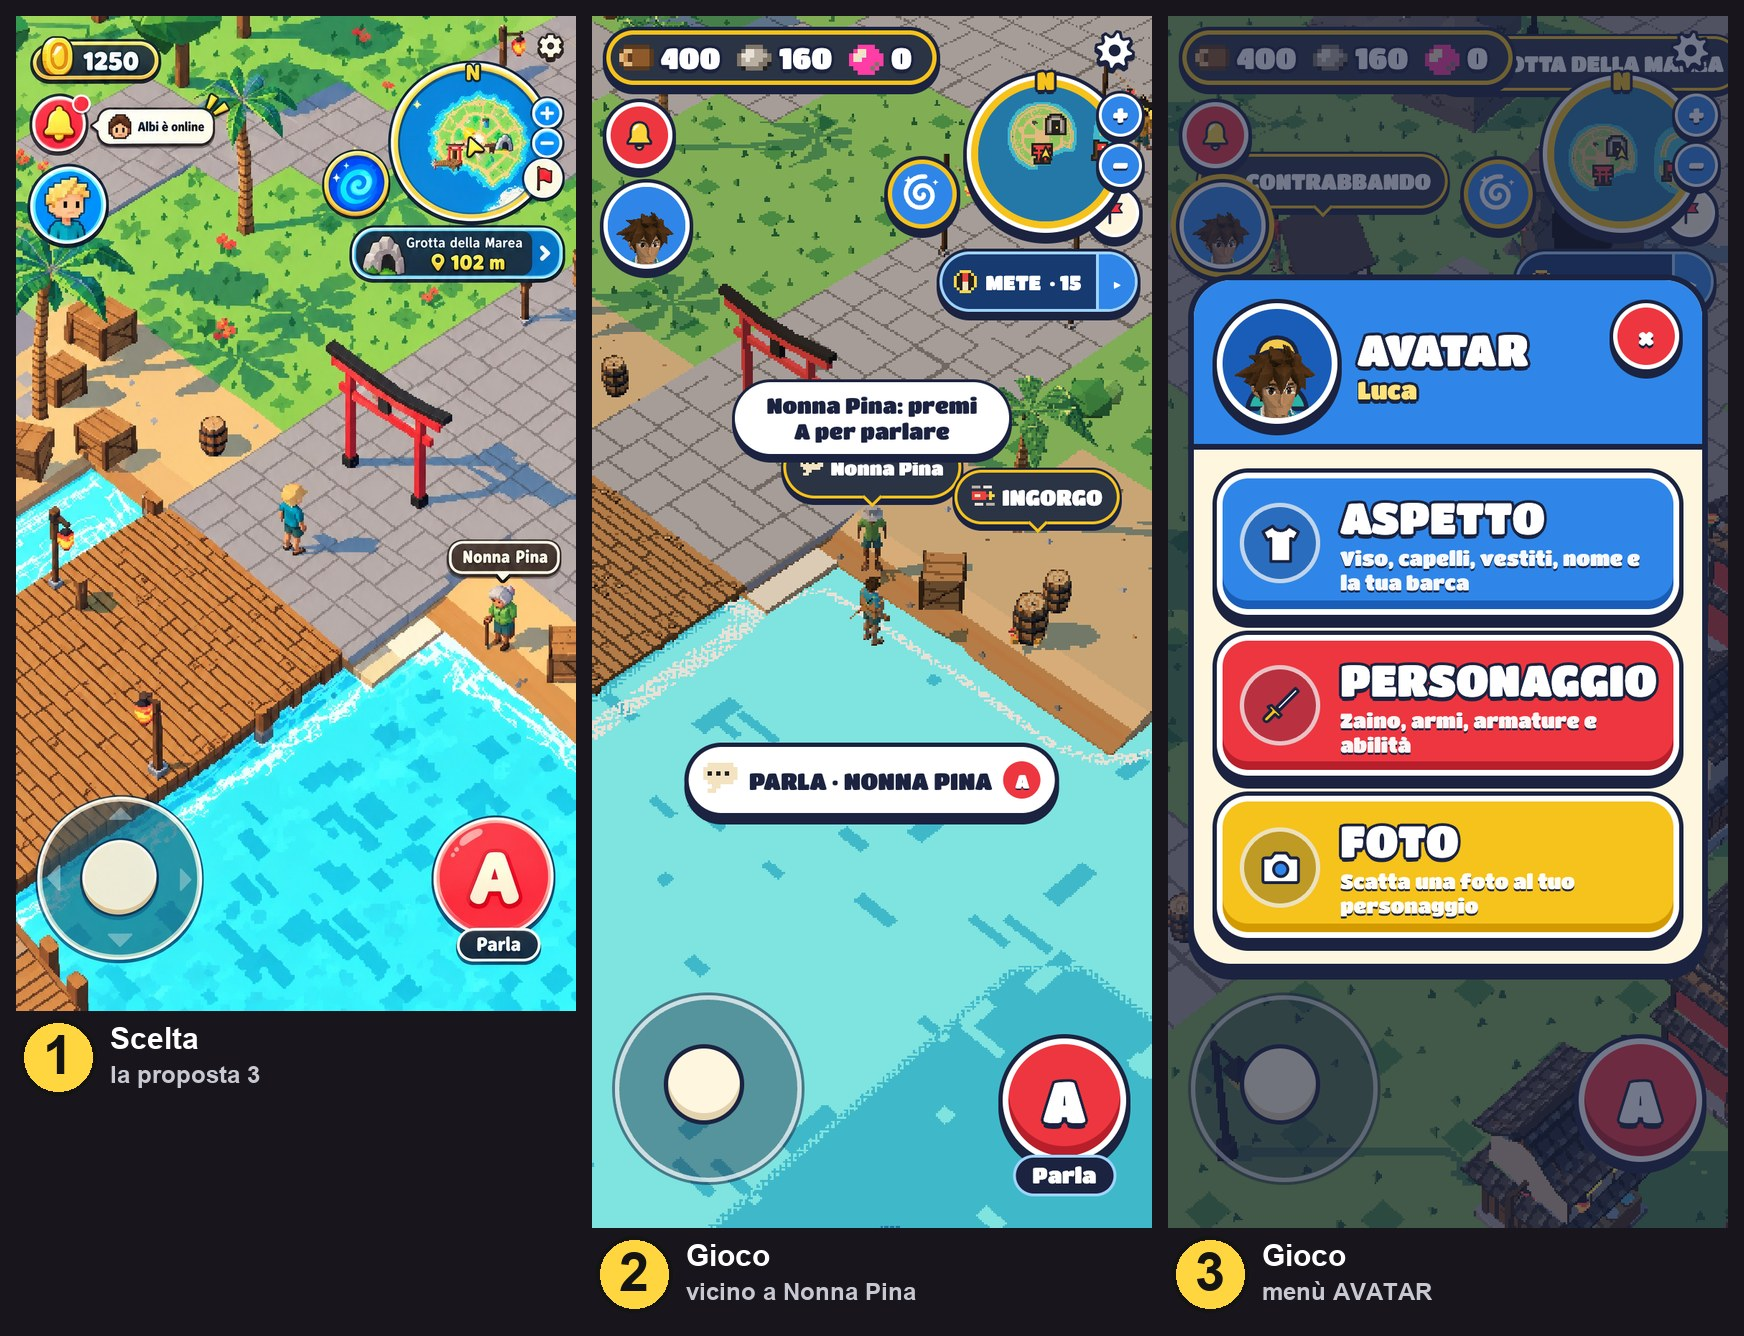
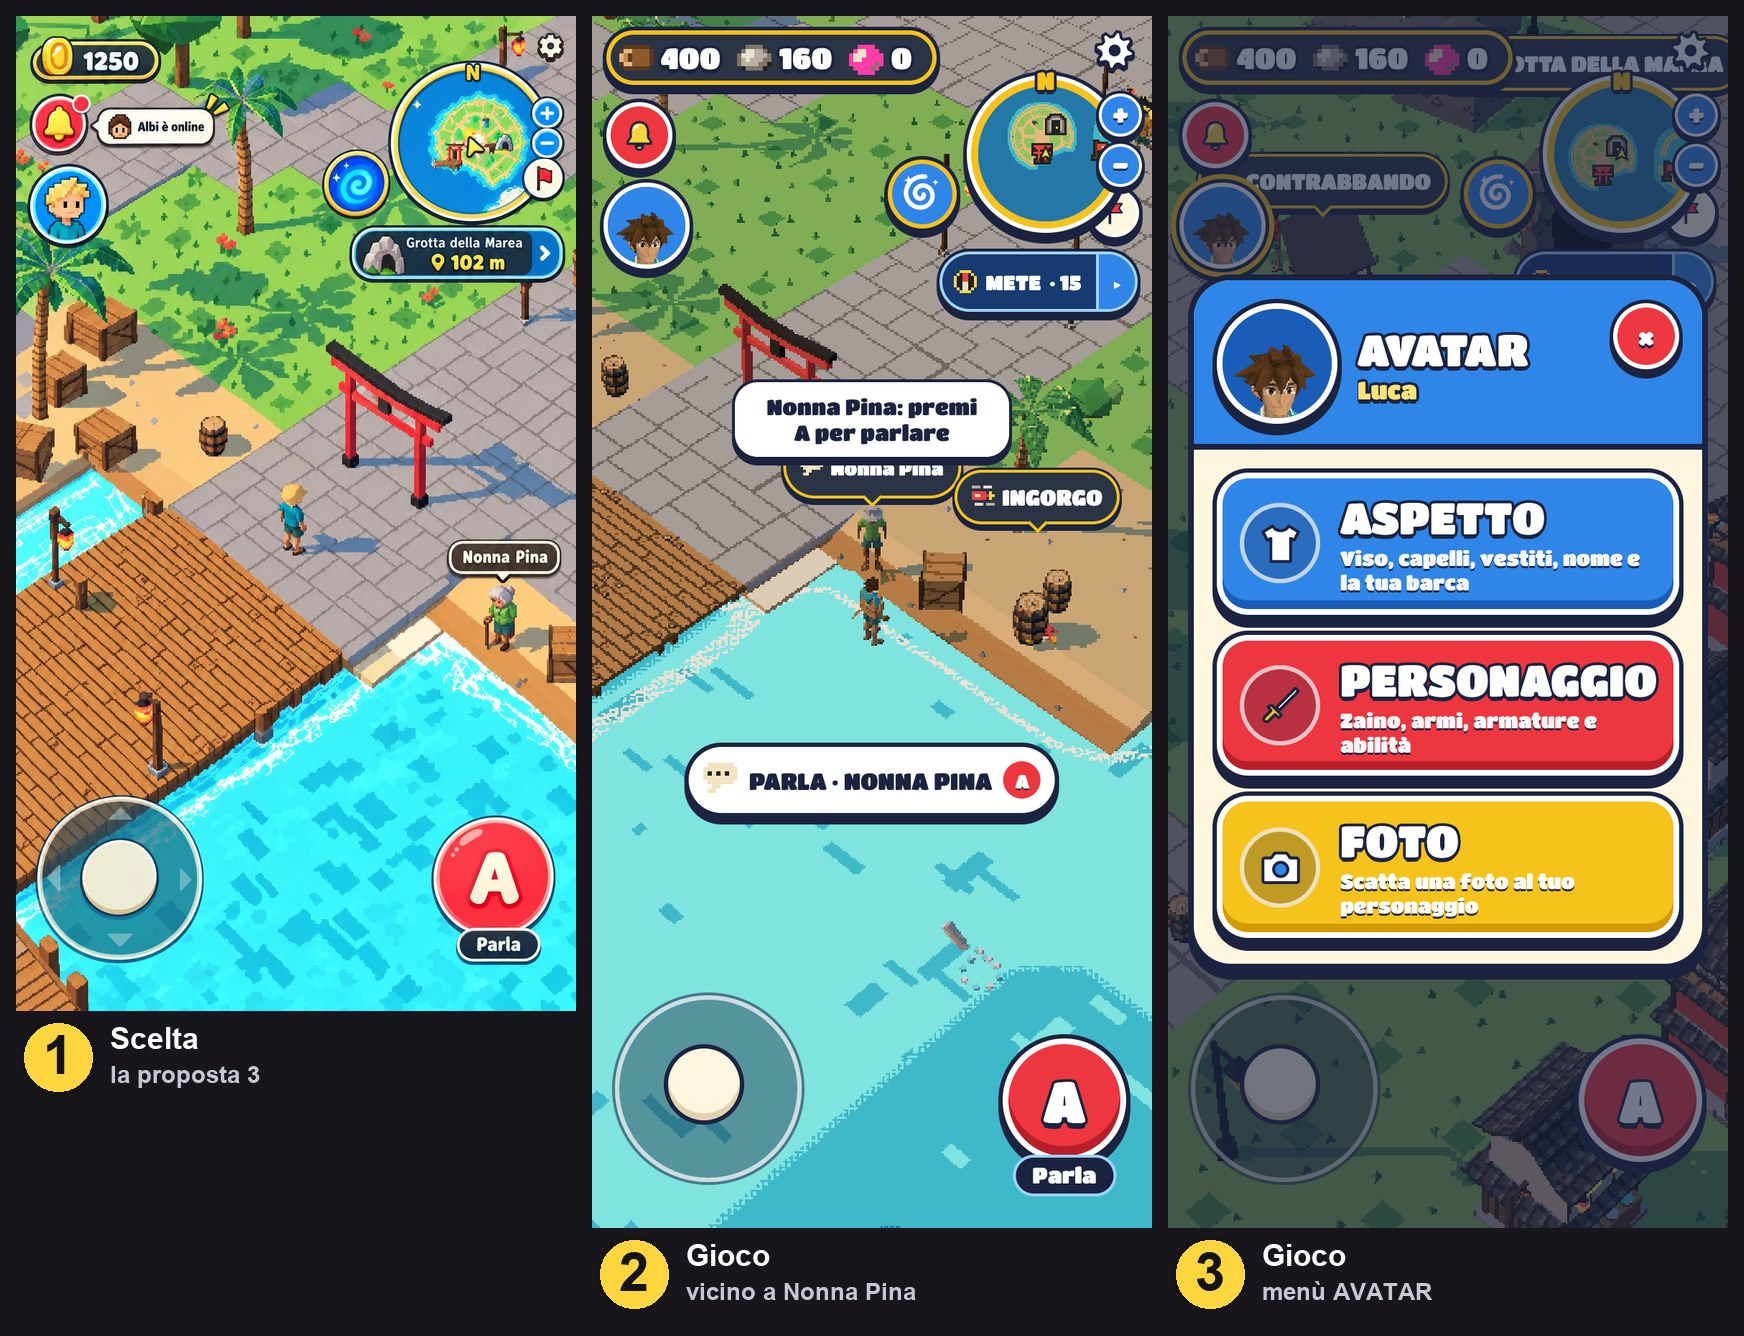
HUD: ritratto col renderer del gioco e in memoria, faccina degli amici coi loro colori (#417)
Il ritratto 3D con un secondo WebGL bloccava il gioco per centinaia di ms (il
fumetto delle emote arrivava tardi): ora si disegna col renderer del gioco su un
render target, una volta per look, 8 s dopo l'avvio, e si tiene in localStorage.
Il fumetto «X è online» usa la testa disegnata coi colori dell'amico.
Test della minimappa: sul PC il cerchio ora sta in alto a destra.

diff --git a/apps/client/src/ui/stile_allegro.ts b/apps/client/src/ui/stile_allegro.ts
@@ -4,6 +4,8 @@
 // Ridisegna sopra i moduli di sempre (topbar, barra risorse, minimappa, mete, cartellini, bottoni di posto) senza toccarne la logica:
 // selettori `body #id` così vince sullo stile vecchio qualunque sia l'ordine dei <style>. I pannelli (fogli, editor, diario…) restano com'erano.
 // Joystick, A e B sono in game/input.ts (stile inline). Colori: palette sua, come l'interfaccia delle Corse (ROADMAP §Deviazioni).
+import type { Look } from '@marea/protocol';
+import { AVATAR } from '@marea/content';
 import { injectUiStyle } from './style.ts';
 
 export const ALLEGRO = {
@@ -39,6 +41,12 @@ function vortice(): string {
 const CAMPANA = `<path d='M12 3.6c-3.3 0-5.6 2.6-5.6 5.9v3.7l-1.9 3v1.3h15v-1.3l-1.9-3V9.5c0-3.3-2.3-5.9-5.6-5.9z' fill='#FFD43B' stroke='${A.notte}' stroke-width='1.5' stroke-linejoin='round'/><path d='M9.5 18.9a2.5 2.5 0 0 0 5 0z' fill='#FFD43B' stroke='${A.notte}' stroke-width='1.4' stroke-linejoin='round'/><path d='M8.6 8.4c.4-1.4 1.4-2.3 2.6-2.6' fill='none' stroke='#fff' stroke-width='1.4' stroke-linecap='round'/>`;
 const BANDIERA = `<path d='M8 3.5v17' stroke='${A.notte}' stroke-width='2.2' stroke-linecap='round'/><path d='M8.6 4.4h9.6l-2.6 3.8 2.6 3.8H8.6z' fill='${A.rosso}' stroke='${A.notte}' stroke-width='1.3' stroke-linejoin='round'/>`;
 const SPILLO = `<path d='M12 21s-6.2-6.4-6.2-11a6.2 6.2 0 0 1 12.4 0c0 4.6-6.2 11-6.2 11z' fill='${A.oro}' stroke='${A.notte}' stroke-width='1.6'/><circle cx='12' cy='10' r='2.3' fill='${A.notte}'/>`;
+/** Testa disegnata coi colori del look (pelle, capelli, vestito): niente WebGL, va bene per il fumetto di un amico e intanto che il
+ *  ritratto vero si fa. Senza look, colori di serie. */
+export function testaSvg(look: Look | null): string {
+  const pelle = AVATAR.pelle[look?.pelle ?? 0] ?? '#F6D3A8', capelli = AVATAR.coloriCapelli[look?.coloreCapelli ?? 3] ?? '#F2C94C', vestito = AVATAR.vestiti[look?.vestito ?? 0] ?? '#2BB3A8';
+  return svg(`<circle cx='12' cy='10' r='5.2' fill='${pelle}' stroke='${A.notte}' stroke-width='1.2'/><path d='M6.6 9.2c0-3.4 2.4-5.4 5.4-5.4s5.4 2 5.4 5.4c-1.4-1.2-3.4-1.9-5.4-1.9s-4 .7-5.4 1.9z' fill='${capelli}' stroke='${A.notte}' stroke-width='1.1'/><circle cx='10' cy='10.6' r='.7' fill='${A.notte}'/><circle cx='14' cy='10.6' r='.7' fill='${A.notte}'/><path d='M4 23c.6-4.4 3.8-6.6 8-6.6s7.4 2.2 8 6.6z' fill='${vestito}' stroke='${A.notte}' stroke-width='1.2'/>`);
+}
 /** Testa stilizzata finché il ritratto vero non è pronto (o se WebGL manca). */
 export const TESTA_DI_RISERVA = svg(`<circle cx='12' cy='10' r='5.2' fill='#F6D3A8' stroke='${A.notte}' stroke-width='1.2'/><path d='M6.6 9.2c0-3.4 2.4-5.4 5.4-5.4s5.4 2 5.4 5.4c-1.4-1.2-3.4-1.9-5.4-1.9s-4 .7-5.4 1.9z' fill='#F2C94C' stroke='${A.notte}' stroke-width='1.1'/><path d='M4 23c.6-4.4 3.8-6.6 8-6.6s7.4 2.2 8 6.6z' fill='#2BB3A8' stroke='${A.notte}' stroke-width='1.2'/>`);
 
@@ -76,7 +84,7 @@ body #mzTop .mz-topbtn.mz-via { display: none !important; }
 body #mzTop .mz-topbtn > canvas, body #mzTop .mz-topbtn > svg { display: none; }
 body #mzTop .mz-badge { top: ${k(-5)}; right: ${k(-5)}; min-width: ${k(17)}; height: ${k(17)}; padding: 0 ${k(3)}; box-sizing: border-box; border-radius: 999px; background: ${A.rosso}; border: ${k(2.5)} solid ${A.bianco}; box-shadow: 0 0 0 ${k(1.5)} ${A.notte}; color: ${A.bianco}; font: ${k(10)} ${FONT_ALLEGRO}; text-shadow: none; }
 body #mzTop #mzFeedBtn { left: 10px; top: calc(${T} + ${k(50)}); width: ${k(46)}; height: ${k(46)}; background-color: ${A.rosso} !important; background-image: ${svg(CAMPANA)}; background-size: 64%; }
-body #mzTop #mzAvatarBtn { left: 8px; top: calc(${T} + ${k(106)}); width: ${k(60)}; height: ${k(60)}; overflow: hidden; background: ${A.blu} ${TESTA_DI_RISERVA} center 70% / 82% no-repeat !important; }
+body #mzTop #mzAvatarBtn { left: 8px; top: calc(${T} + ${k(106)}); width: ${k(60)}; height: ${k(60)}; overflow: hidden; background: ${A.blu} var(--mz-testa, ${TESTA_DI_RISERVA}) center 70% / 82% no-repeat !important; }
 body #mzTop #mzAvatarBtn img { position: absolute; inset: 0; width: 100%; height: 100%; object-fit: cover; border-radius: 50%; image-rendering: pixelated; background: ${A.blu}; }
 body #mzTop #mzSetBtn { left: auto; right: 6px; top: calc(${T} - ${k(6)}); width: ${k(40)}; height: ${k(40)}; border: 0; box-shadow: none; background: transparent ${svg(ingranaggio())} center / 74% no-repeat !important; filter: drop-shadow(0 ${k(2)} 0 ${A.notte}); }
 body #mzTop #mzSetBtn.on { box-shadow: none; filter: drop-shadow(0 0 ${k(3)} ${A.oro}) drop-shadow(0 ${k(2)} 0 ${A.notte}); }
@@ -93,7 +101,7 @@ body #mzTop #mzTemplariProva { top: calc(${T} + ${k(336)}); } body #mzTop #mzTem
 #mzOnline.on { opacity: 1; transform: none; }
 #mzOnline::before { content: ''; position: absolute; left: ${k(-9)}; top: 50%; width: ${k(10)}; height: ${k(10)}; background: ${A.bianco}; border-left: ${k(2.5)} solid ${A.notte}; border-bottom: ${k(2.5)} solid ${A.notte}; transform: translateY(-50%) rotate(45deg); }
 #mzOnline::after { content: ''; position: absolute; right: ${k(-14)}; top: ${k(-12)}; width: ${k(16)}; height: ${k(16)}; background: ${svg(`<path d='M4 18 9 9M11 20l9-6' stroke='${A.oro}' stroke-width='3.4' stroke-linecap='round'/><path d='M4 18 9 9M11 20l9-6' stroke='${A.notte}' stroke-width='1' stroke-linecap='round' opacity='.35'/>`)} center / contain no-repeat; }
-#mzOnline img, #mzOnline i { width: ${k(26)}; height: ${k(26)}; flex: none; border-radius: 50%; background: ${A.crema} ${TESTA_DI_RISERVA} center / 90% no-repeat; object-fit: cover; image-rendering: pixelated; }
+#mzOnline i { width: ${k(26)}; height: ${k(26)}; flex: none; border-radius: 50%; background: ${A.crema} ${TESTA_DI_RISERVA} center 80% / 92% no-repeat; }
 body.mz-sotto #mzOnline, #ui.mz-racing #mzOnline { visibility: hidden; }
 
 /* ——— minimappa: anello d'oro, bianco e blu notte; N gialla; + − e bandierina sul bordo ——— */

diff --git a/apps/client/src/ui/ritratto_avatar.ts b/apps/client/src/ui/ritratto_avatar.ts
@@ -1,6 +1,6 @@
-// Ritratto dell'avatar per l'HUD (#417): la testa di fronte, col look di chi gioca (bottone AVATAR) o di un amico (fumetto «è online»).
-// Come i ritratti delle Corse (corse/ritratti.ts) ma senza veicolo: un renderer piccolo a parte, usato per tutti i ritratti in coda e poi
-// buttato (sul telefono un secondo WebGL acceso pesa). Chunk caricato dopo l'avvio: l'HUD intanto mostra la testa di riserva.
+// Ritratto dell'avatar per l'HUD (#417): la testa di fronte, col look di chi gioca (bottone AVATAR e menù).
+// Usa il renderer del gioco su un render target piccolo (niente secondo WebGL: accenderlo bloccava il gioco per centinaia di ms),
+// poi legge i pixel in un PNG. Chunk caricato dopo l'avvio; il risultato lo tiene in memoria ui/hud_allegro.ts.
 import * as THREE from 'three';
 import type { Look } from '@marea/protocol';
 import { createAvatar } from '../game/avatar.ts';
@@ -8,42 +8,44 @@ import type { Loader } from '../render/loader.ts';
 
 const LATO = 128;
 const fatti = new Map<string, Promise<string>>();
-let coda: { look: Look; fatto: (url: string) => void }[] = [];
 
-/** Data URL PNG della testa ('' se WebGL non c'è o qualcosa va storto). Uno per look. */
-export function ritrattoAvatar(look: Look, loader: Loader): Promise<string> {
+/** Data URL PNG della testa ('' se qualcosa va storto). Uno per look. */
+export function ritrattoAvatar(look: Look, loader: Loader, gl: THREE.WebGLRenderer): Promise<string> {
   const k = JSON.stringify(look);
   let f = fatti.get(k);
-  if (!f) {
-    f = new Promise<string>((fatto) => { coda.push({ look, fatto }); if (coda.length === 1) setTimeout(() => void scatta(loader), 0); });
-    fatti.set(k, f);
-  }
+  if (!f) { f = scatta(look, loader, gl).catch((e: unknown) => { console.warn('[marea] ritratto non fatto', e); return ''; }); fatti.set(k, f); }
   return f;
 }
 
-async function scatta(loader: Loader): Promise<void> {
-  const lista = coda; coda = [];
-  if (!lista.length) return;
-  let gl: THREE.WebGLRenderer | null = null;
-  try { gl = new THREE.WebGLRenderer({ alpha: true, antialias: false, preserveDrawingBuffer: true }); } catch { for (const x of lista) x.fatto(''); return; }
-  gl.setPixelRatio(1); gl.setSize(LATO, LATO, false); gl.outputColorSpace = THREE.SRGBColorSpace; gl.setClearColor(0x000000, 0);
+async function scatta(look: Look, loader: Loader, gl: THREE.WebGLRenderer): Promise<string> {
+  const avatar = await createAvatar({ loader, look, x: 0, z: 0 });
+  avatar.teleport(0, 0, 0); avatar.update(1, 0);
   const scena = new THREE.Scene();
-  scena.add(new THREE.HemisphereLight(0xffffff, 0x88aacc, 1.8));
-  const sole = new THREE.DirectionalLight(0xfff0d8, 2.0); sole.position.set(-3, 6, -8); scena.add(sole);
+  scena.add(new THREE.HemisphereLight(0xffffff, 0xaaccee, 2.4));
+  const sole = new THREE.DirectionalLight(0xfff0d8, 2.6); sole.position.set(-2, 5, -9); scena.add(sole);
+  scena.add(avatar.object); avatar.object.updateMatrixWorld(true);
+  const box = new THREE.Box3().setFromObject(avatar.object);
+  // la sim guarda verso −z a yaw 0: la camera sta davanti, appena di lato e un filo dall'alto, sulla testa
+  const alto = box.max.y, h = alto - box.min.y, testa = alto - h * 0.1, d = h * 0.62;
   const cam = new THREE.PerspectiveCamera(24, 1, 0.05, 50);
-  const box = new THREE.Box3();
-  for (const { look, fatto } of lista) {
-    try {
-      const avatar = await createAvatar({ loader, look, x: 0, z: 0 });
-      avatar.teleport(0, 0, 0); avatar.update(1, 0);
-      scena.add(avatar.object); avatar.object.updateMatrixWorld(true);
-      box.setFromObject(avatar.object);
-      // la sim guarda verso −z a yaw 0: la camera sta davanti, appena di lato e un filo dall'alto, sulla testa (l'ultimo sesto dell'altezza)
-      const alto = box.max.y, testa = alto - (alto - box.min.y) * 0.1, d = (alto - box.min.y) * 0.62;
-      cam.position.set(d * 0.18, testa + d * 0.05, -d); cam.lookAt(0, testa - (alto - box.min.y) * 0.035, 0);
-      gl.render(scena, cam); fatto(gl.domElement.toDataURL('image/png'));
-      scena.remove(avatar.object);
-    } catch (e) { console.warn('[marea] ritratto non fatto', e); fatto(''); }
+  cam.position.set(d * 0.18, testa + d * 0.05, -d); cam.lookAt(0, testa - h * 0.035, 0);
+  const rt = new THREE.WebGLRenderTarget(LATO, LATO, { depthBuffer: true });
+  rt.texture.colorSpace = THREE.SRGBColorSpace;
+  const prima = gl.getRenderTarget(), colore = gl.getClearColor(new THREE.Color()), alfa = gl.getClearAlpha();
+  const px = new Uint8Array(LATO * LATO * 4);
+  try {
+    gl.setRenderTarget(rt); gl.setClearColor(0x000000, 0); gl.clear();
+    gl.render(scena, cam);
+    gl.readRenderTargetPixels(rt, 0, 0, LATO, LATO, px);
+  } finally {
+    gl.setRenderTarget(prima); gl.setClearColor(colore, alfa);
+    rt.dispose(); scena.remove(avatar.object);
   }
-  gl.dispose(); gl.forceContextLoss();
+  // le righe del render target vanno dal basso in alto: si rovesciano nel canvas
+  const cv = document.createElement('canvas'); cv.width = cv.height = LATO;
+  const g = cv.getContext('2d'); if (!g) return '';
+  const img = g.createImageData(LATO, LATO);
+  for (let y = 0; y < LATO; y++) img.data.set(px.subarray((LATO - 1 - y) * LATO * 4, (LATO - y) * LATO * 4), y * LATO * 4);
+  g.putImageData(img, 0, 0);
+  return cv.toDataURL('image/png');
 }

diff --git a/apps/client/src/ui/hud_allegro.ts b/apps/client/src/ui/hud_allegro.ts
@@ -4,17 +4,18 @@
 // - Bandierina sul bordo della minimappa: apre e chiude l'elenco delle mete (la pillola sotto la minimappa fa lo stesso).
 // - «Albi è online»: fumetto accanto alla campanella quando un amico entra nel mondo (evento `join` della Zone).
 // Lo stile sta in ui/stile_allegro.ts.
+import type { WebGLRenderer } from 'three';
 import type { Look } from '@marea/protocol';
 import type { NetClient } from '../net/client.ts';
 import type { Loader } from '../render/loader.ts';
 import { registerStateProvider, registerTestHook } from '../test/testapi.ts';
-import { injectAllegro } from './stile_allegro.ts';
+import { injectAllegro, testaSvg } from './stile_allegro.ts';
 import { el } from './style.ts';
 import { topButton } from './topbar.ts';
 
 export type HudAllegro = { setLook(look: Look | null): void; update(): void; chiudi(): void; isOpen(): boolean };
 
-export function createHudAllegro(o: { root: HTMLElement; net: NetClient; loader: Loader; look: Look | null; nome: string }): HudAllegro {
+export function createHudAllegro(o: { root: HTMLElement; net: NetClient; loader: Loader; gl: WebGLRenderer; look: Look | null; nome: string }): HudAllegro {
   injectAllegro();
   let look = o.look, url = '';
   const ritratti = (): Promise<typeof import('./ritratto_avatar.ts')> => import('./ritratto_avatar.ts');
@@ -33,12 +34,22 @@ export function createHudAllegro(o: { root: HTMLElement; net: NetClient; loader:
     if (u) { img.src = u; img.style.display = ''; } else { img.removeAttribute('src'); img.style.display = 'none'; }
     menu?.setRitratto(u);
   };
+  // il ritratto vero (ui/ritratto_avatar.ts, col renderer del gioco) si fa una volta per look, 8 s dopo l'avvio quando il browser
+  // respira, e si tiene in localStorage; intanto il bottone mostra la testa disegnata coi colori del look
+  const CHIAVE = 'mz-ritratto:';
   const disegna = () => {
     const l = look;
+    btn.el.style.setProperty('--mz-testa', testaSvg(l));
     if (!l) { mostra(''); return; }
-    // dopo l'avvio, quando il browser respira: il ritratto non deve rallentare il primo frame
-    const via = () => void ritratti().then((m) => m.ritrattoAvatar(l, o.loader)).then((u) => { if (look === l) mostra(u); }).catch(() => {});
-    if ('requestIdleCallback' in window) requestIdleCallback(via, { timeout: 4000 }); else setTimeout(via, 1500);
+    const k = CHIAVE + JSON.stringify(l);
+    try { const u = localStorage.getItem(k); if (u) { mostra(u); return; } } catch { /* storage bloccato: si rifà */ }
+    mostra('');
+    const via = () => void ritratti().then((m) => m.ritrattoAvatar(l, o.loader, o.gl)).then((u) => {
+      if (look !== l || !u) return;
+      mostra(u);
+      try { for (const x of Object.keys(localStorage)) if (x.startsWith(CHIAVE)) localStorage.removeItem(x); localStorage.setItem(k, u); } catch { /* pieno o bloccato: pazienza */ }
+    }).catch(() => {});
+    setTimeout(() => { if ('requestIdleCallback' in window) requestIdleCallback(via, { timeout: 4000 }); else via(); }, 8000);
   };
   disegna();
 
@@ -56,9 +67,8 @@ export function createHudAllegro(o: { root: HTMLElement; net: NetClient; loader:
     const ora = Date.now();
     if (ora - (visto.get(id) ?? -Infinity) < 5 * 60_000) return; // chi si ricollega di continuo non riempie lo schermo
     visto.set(id, ora); ultimo = chi;
-    const faccia = el('i');
+    const faccia = el('i'); faccia.style.backgroundImage = testaSvg(suo); // niente WebGL per gli amici: la testa coi loro colori
     bolla.replaceChildren(faccia, el('span', '', `${chi} è online`));
-    if (suo) void ritratti().then((m) => m.ritrattoAvatar(suo, o.loader)).then((u) => { if (u && faccia.isConnected) { const f = document.createElement('img'); f.alt = ''; f.src = u; faccia.replaceWith(f); } }).catch(() => {});
     bolla.classList.add('on');
     if (bollaT) clearTimeout(bollaT);
     bollaT = setTimeout(() => { bolla.classList.remove('on'); bollaT = null; }, 5000);

diff --git a/apps/client/src/main.ts b/apps/client/src/main.ts
@@ -363,7 +363,7 @@ async function boot(): Promise<void> {
     puo: () => !(regata.active || giochi.isBusy() || sotto() || ingressi.isBusy() || tpl.isBusy() || !!ar?.isBusy() || !!dif?.isBusy()),
     prima: () => { editor?.close(); feed?.close(); eroe?.close(); porto.close(); amici.close(); libri.close(); diario.close(); mappa?.close(); impostazioni.close(); if (tavolo?.isOpen()) tavolo.close(); document.querySelector<HTMLElement>('#mzSheet.on .mz-x')?.click(); },
   });
-  allegro = createHudAllegro({ root, net: world.net, loader, look: me?.look ?? null, nome: me?.nome ?? '' });
+  allegro = createHudAllegro({ root, net: world.net, loader, gl: renderer.gl, look: me?.look ?? null, nome: me?.nome ?? '' });
   const FERMO = { mx: 0, my: 0, a: false, b: false }; // in modalità foto l'avatar sta fermo (il mondo no)
   // Decorazioni libere (#108): vicino a una decorazione della tua isola, a piedi, A apre la sua scheda (in SPOSTA conferma)
   const mioLotto = lots.find((lv) => !lv.readonly) ?? null;
